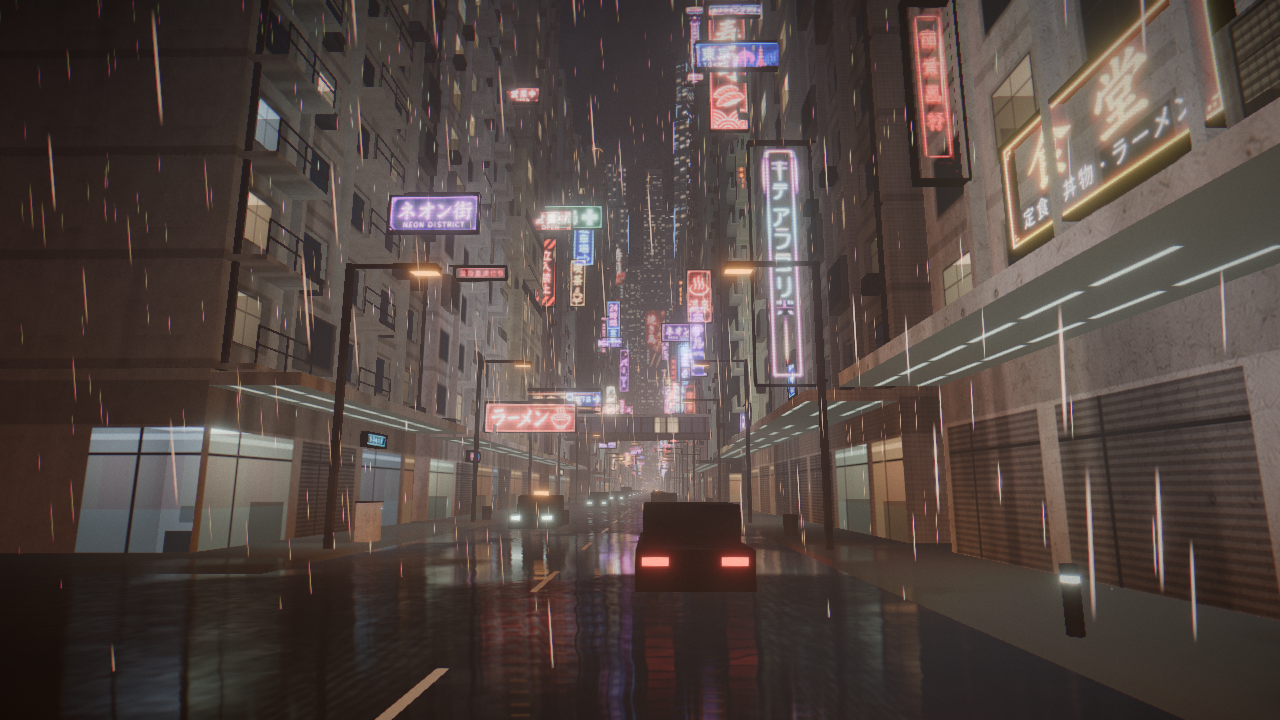
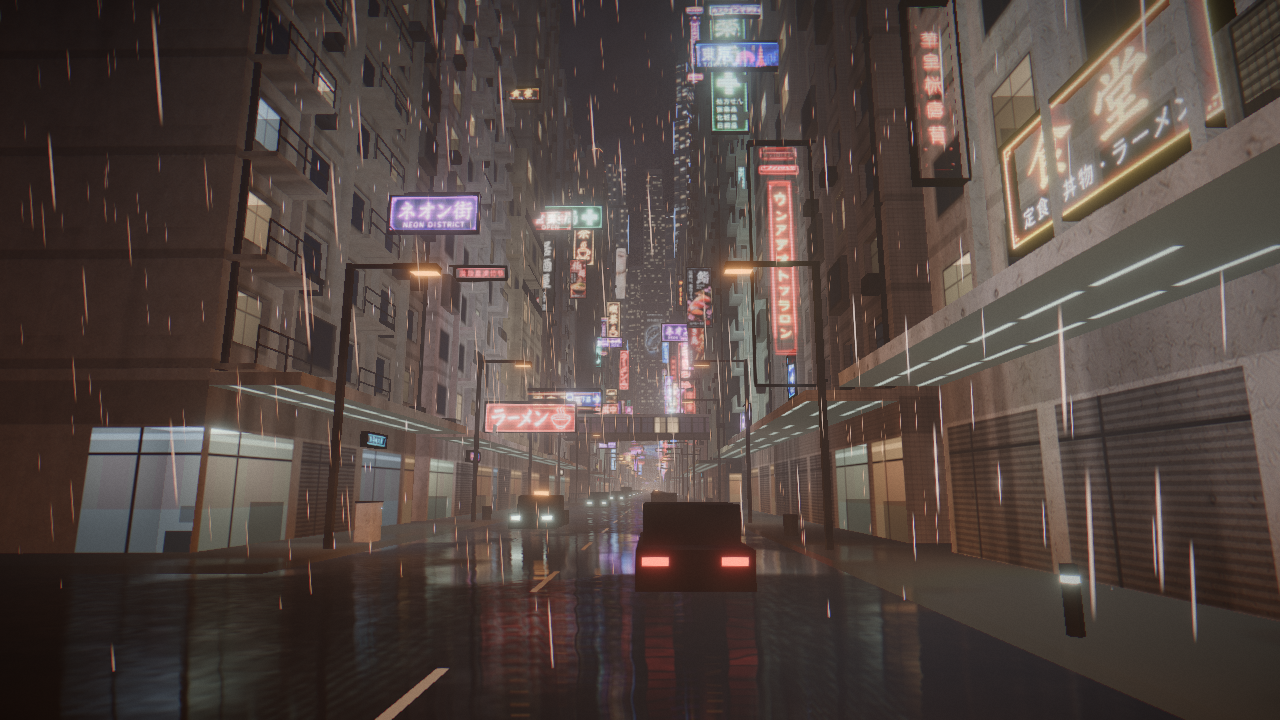
Docs: tower ad and billboard review, warm atlas prompts

diff --git a/docs/SIGN-PROMPTS.md b/docs/SIGN-PROMPTS.md
@@ -59,3 +59,38 @@ night city advertising style, no real brand --ar 3:2 --v 7
 ```
 Ideas: canned coffee, electric scooter, mobile network, sleep capsule hotel, mahjong app,
 cooking oil, herbal tea, airline. Mix in a few portrait (--ar 2:3) for the tower screens.
+
+## ChatGPT atlases (preferred): drop into `signs-src/atlases/`, add a sidecar JSON
+Ask for a square sheet, panels separated by clear black gutters (the slicer cuts on them).
+
+### A. Warm shop neon (red / amber / warm white), street level
+```
+A square texture atlas of 30 Japanese shop neon signs for a night city game, mixed vertical
+(1:4, 1:3) and horizontal (4:1, 3:1) panels, each separated by a clear pure-black gutter on a
+pure black background. Palette strictly warm: red, orange, amber, warm white, sodium yellow,
+with only a few small green accents; no cyan, no magenta, no purple. Glowing neon tubes and
+backlit acrylic lightboxes with correct Japanese text: ラーメン, 焼肉, 居酒屋, 質屋, 金, 旅館,
+麻雀, 餃子, 珈琲, 理髪, 漢方, 酒場, 定食, 弁当, 営業中. Worn metal frames, a few with a
+dead tube. Front view, flat, no perspective, no real brands.
+```
+
+### B. Stylish tower campaigns (tall 1:4), for skyscraper shafts
+```
+A square texture atlas of 12 tall vertical (1:4) luxury advertising panels for skyscrapers
+in a future Tokyo, separated by clear black gutters on a pure black background. Invented
+premium brands: fashion, perfume, watches, electric cars, headphones, a bank, an airline,
+a film premiere. Elegant editorial layouts, large models or products, refined typography with
+short Japanese and English copy. Palette: gold, champagne, deep red, ivory, warm amber and
+black; avoid cyan and magenta. No food, no real brands or logos.
+```
+
+### C. Wide rooftop billboards (2.4:1)
+```
+A square texture atlas of 8 wide rooftop billboard advertisements, each exactly 2.4:1,
+separated by clear black gutters on a pure black background. Invented brands: energy drink,
+motorcycle, instant camera, sneakers, beer-free soda, mobile network, night bus, casino-free
+arcade. Bold condensed typography, strong product hero shots, warm palette (red, orange,
+gold, cream) with black; avoid cyan/magenta washes. No real brands.
+```
+Sidecar example (`<sheet>.json`): `{ "kind": "neon", "expect": 30 }` (use "ad" for B/C);
+add `"shop": {"<index>": "what"}` for food/shop ads so they stay at street level.

diff --git a/docs/DECISIONS.md b/docs/DECISIONS.md
@@ -126,3 +126,5 @@ One line per decision: `YYYY-MM-DD | area | decision | reason`.
 2026-09-27 | signs | Atlas sheets take a sidecar JSON (kind, expected panel count, splits for gutterless pairs, excludes with reasons) | Slicing must fail loudly if a sheet changes; real-brand and junk cells stay out with a visible reason.
 2026-09-27 | signs | Rooftop billboard frames only take ads within ±25% of the frame aspect | Narrower ads left dark panels at the frame sides (human review).
 2026-09-27 | signs | Hologram back-face mirroring decided geometrically (camera vs plane normal), not gl_FrontFacing | gl_FrontFacing was wrong under SwiftShader: blade text read mirrored from one side.
+2026-09-27 | signs | Atlas sidecars tag shop/food cells; tower billboard and shaft zones exclude them | Human review: towers need stylish brand campaigns; food ads belong at street level.
+2026-09-27 | signs | Rooftop billboard boards are built at runtime to the ad's size (generator reserves the slot only) | A fixed plate left bars around any ad whose aspect differed from 2.4:1.

diff --git a/docs/NOTES.md b/docs/NOTES.md
@@ -566,3 +566,13 @@ and milestone images are saved in `docs/progress/advertising-pilot/`.
 - Critique: canyon reads as a real neon street with correct Japanese. The atlases lean
   cyan/magenta; warm weighting keeps red/amber leading at street level. Tower shaft ads now
   mostly come from the tall atlas cells (薬, 鮨, anime posters) and read from `skyline`.
+
+### Human review: tower ads and billboards (2026-09-27)
+- Food and pharmacy ads on skyscrapers looked cheap in the prominent spot. Atlas sidecars
+  now tag shop/food cells (`shop`); tower billboard and shaft zones skip them (0 of 113
+  tower ads), street blades may use them.
+- Rooftop billboards still showed dark bars: the Blender frame was a fixed 12×5 m plate.
+  The generator now only reserves the slot; the runtime builds panel, frame, legs and brace
+  at the ad's exact size, so any landscape ad (1.3–3.5:1) covers its board completely.
+- Warm-palette ChatGPT atlas prompts added to docs/SIGN-PROMPTS.md (shop neon, tower
+  campaigns, wide billboards).
